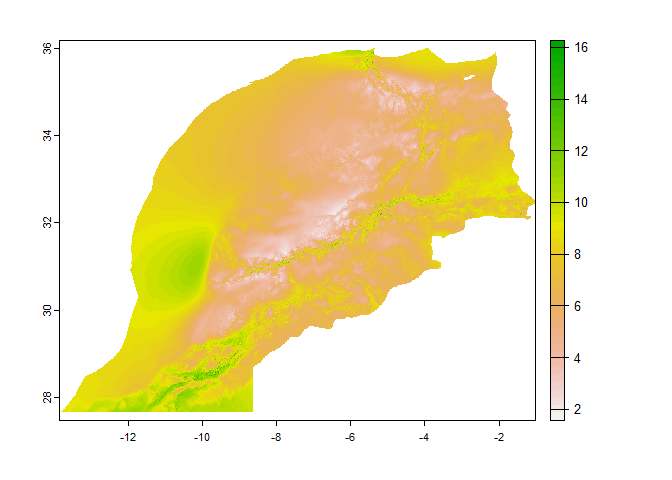
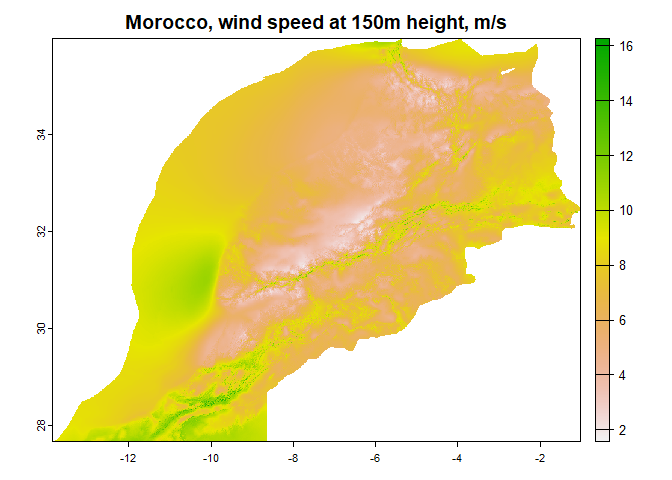
updating readme

diff --git a/docs/index.html b/docs/index.html
@@ -32,7 +32,7 @@
     
     <a class="navbar-brand me-2" href="index.html">globalwindatlas</a>
 
-    <small class="nav-text text-info me-auto" data-bs-toggle="tooltip" data-bs-placement="bottom" title="Unreleased version">2023.05.22.900</small>
+    <small class="nav-text text-info me-auto" data-bs-toggle="tooltip" data-bs-placement="bottom" title="Unreleased version">2023.06.15.9000</small>
 
     
     <button class="navbar-toggler" type="button" data-bs-toggle="collapse" data-bs-target="#navbar" aria-controls="navbar" aria-expanded="false" aria-label="Toggle navigation">
@@ -65,7 +65,8 @@
 <!-- badges: start -->
 
 <!-- badges: end -->
-<p>The package assists downloading and processing high-resolution (250m grid) maps with averaged wind potential from <a href="https://globalwindatlas.info" class="external-link">Global Wind Atlas</a>. The data can be used for selections of locations for potential development of wind power plants.</p>
+<p>The package assists downloading and processing high-resolution (250m grid) maps with averaged wind potential from <a href="https://globalwindatlas.info" class="external-link">Global Wind Atlas</a>. The data might be useful in energy systems modeling for selections of locations with high wind energy potential.</p>
+<p>Documentation: <a href="https://energyrt.github.io/globalwindatlas/index.html" class="external-link uri">https://energyrt.github.io/globalwindatlas/index.html</a></p>
 <div class="section level2">
 <h2 id="installation">Installation<a class="anchor" aria-label="anchor" href="#installation"></a>
 </h2>
@@ -84,23 +85,28 @@
 <span><span class="fu"><a href="reference/gwa_set_dir.html">gwa_set_dir</a></span><span class="op">(</span><span class="st">"data/gwa"</span><span class="op">)</span></span>
 <span><span class="co">## download wind capacity factors for wind-class #1</span></span>
 <span><span class="fu"><a href="reference/gwa_get_wind_cf.html">gwa_get_wind_cf</a></span><span class="op">(</span><span class="st">"ISL"</span>, IEC <span class="op">=</span> <span class="fl">1</span><span class="op">)</span></span>
+<span><span class="co">#&gt; [1] "data/gwa/ISL_capacity_factor_IEC1.tif"</span></span>
 <span><span class="co">## download wind speed data</span></span>
-<span><span class="va">ISL</span> <span class="op">&lt;-</span> <span class="fu"><a href="reference/gwa_get_wind_speed.html">gwa_get_wind_speed</a></span><span class="op">(</span><span class="st">"ISL"</span>, height <span class="op">=</span> <span class="fl">100</span><span class="op">)</span> <span class="co"># Iceland</span></span>
+<span><span class="va">ISL</span> <span class="op">&lt;-</span> <span class="fu"><a href="reference/gwa_get_wind_cf.html">gwa_get_wind_cf</a></span><span class="op">(</span><span class="st">"ISL"</span>, IEC <span class="op">=</span> <span class="fl">2</span><span class="op">)</span> <span class="co"># Iceland</span></span>
 <span><span class="va">ISL</span></span>
+<span><span class="co">#&gt; [1] "data/gwa/ISL_capacity_factor_IEC2.tif"</span></span>
 <span></span>
-<span><span class="va">MAR</span> <span class="op">&lt;-</span> <span class="fu"><a href="reference/gwa_get_wind_speed.html">gwa_get_wind_speed</a></span><span class="op">(</span><span class="st">"MAR"</span>, height <span class="op">=</span> <span class="fl">100</span><span class="op">)</span> <span class="co"># Morocco</span></span>
 <span><span class="va">MAR</span> <span class="op">&lt;-</span> <span class="fu"><a href="reference/gwa_get_wind_speed.html">gwa_get_wind_speed</a></span><span class="op">(</span><span class="st">"MAR"</span>, height <span class="op">=</span> <span class="fl">150</span><span class="op">)</span> <span class="co"># Morocco</span></span>
 <span></span>
 <span><span class="co">## plot data</span></span>
 <span><span class="kw"><a href="https://rdrr.io/r/base/library.html" class="external-link">library</a></span><span class="op">(</span><span class="va"><a href="https://rspatial.org/" class="external-link">terra</a></span><span class="op">)</span></span>
-<span><span class="va">tr</span> <span class="op">&lt;-</span> <span class="fu"><a href="https://rdrr.io/pkg/terra/man/rast.html" class="external-link">rast</a></span><span class="op">(</span><span class="va">MAR</span><span class="op">)</span></span>
-<span><span class="fu"><a href="https://rdrr.io/pkg/terra/man/plot.html" class="external-link">plot</a></span><span class="op">(</span><span class="va">tr</span><span class="op">)</span></span>
-<span><span class="fu"><a href="https://rdrr.io/pkg/terra/man/plot.html" class="external-link">plot</a></span><span class="op">(</span><span class="fu"><a href="https://rdrr.io/pkg/terra/man/rast.html" class="external-link">rast</a></span><span class="op">(</span><span class="va">ISL</span><span class="op">)</span><span class="op">)</span></span></code></pre></div>
+<span><span class="co">#&gt; terra 1.7.29</span></span>
+<span><span class="fu"><a href="https://rdrr.io/pkg/terra/man/plot.html" class="external-link">plot</a></span><span class="op">(</span><span class="fu"><a href="https://rdrr.io/pkg/terra/man/rast.html" class="external-link">rast</a></span><span class="op">(</span><span class="va">MAR</span><span class="op">)</span>, main <span class="op">=</span> <span class="st">"Morocco, wind speed at 150m height, m/s"</span><span class="op">)</span></span></code></pre></div>
+<p><img src="reference/figures/README-example-1.png" width="100%"></p>
+<div class="sourceCode" id="cb3"><pre class="downlit sourceCode r">
+<code class="sourceCode R"><span><span class="fu"><a href="https://rdrr.io/pkg/terra/man/plot.html" class="external-link">plot</a></span><span class="op">(</span><span class="fu"><a href="https://rdrr.io/pkg/terra/man/rast.html" class="external-link">rast</a></span><span class="op">(</span><span class="va">ISL</span><span class="op">)</span>, main <span class="op">=</span> <span class="st">"Iceland, wind capacity factors, class 2"</span><span class="op">)</span></span></code></pre></div>
+<p><img src="reference/figures/README-example-2.png" width="100%"></p>
 </div>
 <div class="section level2">
 <h2 id="references">References<a class="anchor" aria-label="anchor" href="#references"></a>
 </h2>
-<p><a href="https://globalwindatlas.info/download/gis-files" class="external-link uri">https://globalwindatlas.info/download/gis-files</a></p>
+<p><a href="https://globalwindatlas.info/download/gis-files" class="external-link uri">https://globalwindatlas.info/download/gis-files</a> (files to download)</p>
+<p><a href="https://energyrt.github.io/globalwindatlas/index.html" class="external-link uri">https://energyrt.github.io/globalwindatlas/index.html</a> (documentation)</p>
 </div>
 </div>
   </main><aside class="col-md-3"><div class="license">

diff --git a/docs/authors.html b/docs/authors.html
@@ -16,7 +16,7 @@
     
     <a class="navbar-brand me-2" href="index.html">globalwindatlas</a>
 
-    <small class="nav-text text-info me-auto" data-bs-toggle="tooltip" data-bs-placement="bottom" title="Unreleased version">2023.05.22.900</small>
+    <small class="nav-text text-info me-auto" data-bs-toggle="tooltip" data-bs-placement="bottom" title="Unreleased version">2023.06.15.9000</small>
 
     
     <button class="navbar-toggler" type="button" data-bs-toggle="collapse" data-bs-target="#navbar" aria-controls="navbar" aria-expanded="false" aria-label="Toggle navigation">
@@ -58,13 +58,13 @@
 
       <p>Lugovoy O (2023).
 <em>globalwindatlas: Access high-resolution (250m) wind potential data in GIS/tif from GlobalWindAtlas.info</em>.
-R package version 2023.05.22.900. 
+R package version 2023.06.15.9000. 
 </p>
       <pre>@Manual{,
   title = {globalwindatlas: Access high-resolution (250m) wind potential data in GIS/tif from GlobalWindAtlas.info},
   author = {Oleg Lugovoy},
   year = {2023},
-  note = {R package version 2023.05.22.900},
+  note = {R package version 2023.06.15.9000},
 }</pre>
     </div>
   </main><aside class="col-md-3"><nav id="toc"><h2>On this page</h2>

diff --git a/docs/articles/globalwindatlas.html b/docs/articles/globalwindatlas.html
@@ -32,7 +32,7 @@
     
     <a class="navbar-brand me-2" href="../index.html">globalwindatlas</a>
 
-    <small class="nav-text text-info me-auto" data-bs-toggle="tooltip" data-bs-placement="bottom" title="Unreleased version">2023.05.22.900</small>
+    <small class="nav-text text-info me-auto" data-bs-toggle="tooltip" data-bs-placement="bottom" title="Unreleased version">2023.06.15.9000</small>
 
     
     <button class="navbar-toggler" type="button" data-bs-toggle="collapse" data-bs-target="#navbar" aria-controls="navbar" aria-expanded="false" aria-label="Toggle navigation">

diff --git a/docs/articles/index.html b/docs/articles/index.html
@@ -16,7 +16,7 @@
     
     <a class="navbar-brand me-2" href="../index.html">globalwindatlas</a>
 
-    <small class="nav-text text-info me-auto" data-bs-toggle="tooltip" data-bs-placement="bottom" title="Unreleased version">2023.05.22.900</small>
+    <small class="nav-text text-info me-auto" data-bs-toggle="tooltip" data-bs-placement="bottom" title="Unreleased version">2023.06.15.9000</small>
 
     
     <button class="navbar-toggler" type="button" data-bs-toggle="collapse" data-bs-target="#navbar" aria-controls="navbar" aria-expanded="false" aria-label="Toggle navigation">

diff --git a/docs/reference/globalwindatlas-package.html b/docs/reference/globalwindatlas-package.html
@@ -16,7 +16,7 @@
     
     <a class="navbar-brand me-2" href="../index.html">globalwindatlas</a>
 
-    <small class="nav-text text-info me-auto" data-bs-toggle="tooltip" data-bs-placement="bottom" title="Unreleased version">2023.05.22.900</small>
+    <small class="nav-text text-info me-auto" data-bs-toggle="tooltip" data-bs-placement="bottom" title="Unreleased version">2023.06.15.9000</small>
 
     
     <button class="navbar-toggler" type="button" data-bs-toggle="collapse" data-bs-target="#navbar" aria-controls="navbar" aria-expanded="false" aria-label="Toggle navigation">

diff --git a/docs/reference/gwa_get_dir.html b/docs/reference/gwa_get_dir.html
@@ -16,7 +16,7 @@
     
     <a class="navbar-brand me-2" href="../index.html">globalwindatlas</a>
 
-    <small class="nav-text text-info me-auto" data-bs-toggle="tooltip" data-bs-placement="bottom" title="Unreleased version">2023.05.22.900</small>
+    <small class="nav-text text-info me-auto" data-bs-toggle="tooltip" data-bs-placement="bottom" title="Unreleased version">2023.06.15.9000</small>
 
     
     <button class="navbar-toggler" type="button" data-bs-toggle="collapse" data-bs-target="#navbar" aria-controls="navbar" aria-expanded="false" aria-label="Toggle navigation">

diff --git a/docs/reference/gwa_get_filename.html b/docs/reference/gwa_get_filename.html
@@ -16,7 +16,7 @@
     
     <a class="navbar-brand me-2" href="../index.html">globalwindatlas</a>
 
-    <small class="nav-text text-info me-auto" data-bs-toggle="tooltip" data-bs-placement="bottom" title="Unreleased version">2023.05.22.900</small>
+    <small class="nav-text text-info me-auto" data-bs-toggle="tooltip" data-bs-placement="bottom" title="Unreleased version">2023.06.15.9000</small>
 
     
     <button class="navbar-toggler" type="button" data-bs-toggle="collapse" data-bs-target="#navbar" aria-controls="navbar" aria-expanded="false" aria-label="Toggle navigation">

diff --git a/docs/reference/gwa_get_wind_cf.html b/docs/reference/gwa_get_wind_cf.html
@@ -16,7 +16,7 @@
     
     <a class="navbar-brand me-2" href="../index.html">globalwindatlas</a>
 
-    <small class="nav-text text-info me-auto" data-bs-toggle="tooltip" data-bs-placement="bottom" title="Unreleased version">2023.05.22.900</small>
+    <small class="nav-text text-info me-auto" data-bs-toggle="tooltip" data-bs-placement="bottom" title="Unreleased version">2023.06.15.9000</small>
 
     
     <button class="navbar-toggler" type="button" data-bs-toggle="collapse" data-bs-target="#navbar" aria-controls="navbar" aria-expanded="false" aria-label="Toggle navigation">

diff --git a/docs/reference/gwa_get_wind_speed.html b/docs/reference/gwa_get_wind_speed.html
@@ -16,7 +16,7 @@
     
     <a class="navbar-brand me-2" href="../index.html">globalwindatlas</a>
 
-    <small class="nav-text text-info me-auto" data-bs-toggle="tooltip" data-bs-placement="bottom" title="Unreleased version">2023.05.22.900</small>
+    <small class="nav-text text-info me-auto" data-bs-toggle="tooltip" data-bs-placement="bottom" title="Unreleased version">2023.06.15.9000</small>
 
     
     <button class="navbar-toggler" type="button" data-bs-toggle="collapse" data-bs-target="#navbar" aria-controls="navbar" aria-expanded="false" aria-label="Toggle navigation">

diff --git a/docs/reference/gwa_group_locations.html b/docs/reference/gwa_group_locations.html
@@ -16,7 +16,7 @@
     
     <a class="navbar-brand me-2" href="../index.html">globalwindatlas</a>
 
-    <small class="nav-text text-info me-auto" data-bs-toggle="tooltip" data-bs-placement="bottom" title="Unreleased version">2023.05.22.900</small>
+    <small class="nav-text text-info me-auto" data-bs-toggle="tooltip" data-bs-placement="bottom" title="Unreleased version">2023.06.15.9000</small>
 
     
     <button class="navbar-toggler" type="button" data-bs-toggle="collapse" data-bs-target="#navbar" aria-controls="navbar" aria-expanded="false" aria-label="Toggle navigation">

diff --git a/docs/reference/gwa_set_dir.html b/docs/reference/gwa_set_dir.html
@@ -16,7 +16,7 @@
     
     <a class="navbar-brand me-2" href="../index.html">globalwindatlas</a>
 
-    <small class="nav-text text-info me-auto" data-bs-toggle="tooltip" data-bs-placement="bottom" title="Unreleased version">2023.05.22.900</small>
+    <small class="nav-text text-info me-auto" data-bs-toggle="tooltip" data-bs-placement="bottom" title="Unreleased version">2023.06.15.9000</small>
 
     
     <button class="navbar-toggler" type="button" data-bs-toggle="collapse" data-bs-target="#navbar" aria-controls="navbar" aria-expanded="false" aria-label="Toggle navigation">

diff --git a/docs/reference/index.html b/docs/reference/index.html
@@ -16,7 +16,7 @@
     
     <a class="navbar-brand me-2" href="../index.html">globalwindatlas</a>
 
-    <small class="nav-text text-info me-auto" data-bs-toggle="tooltip" data-bs-placement="bottom" title="Unreleased version">2023.05.22.900</small>
+    <small class="nav-text text-info me-auto" data-bs-toggle="tooltip" data-bs-placement="bottom" title="Unreleased version">2023.06.15.9000</small>
 
     
     <button class="navbar-toggler" type="button" data-bs-toggle="collapse" data-bs-target="#navbar" aria-controls="navbar" aria-expanded="false" aria-label="Toggle navigation">
